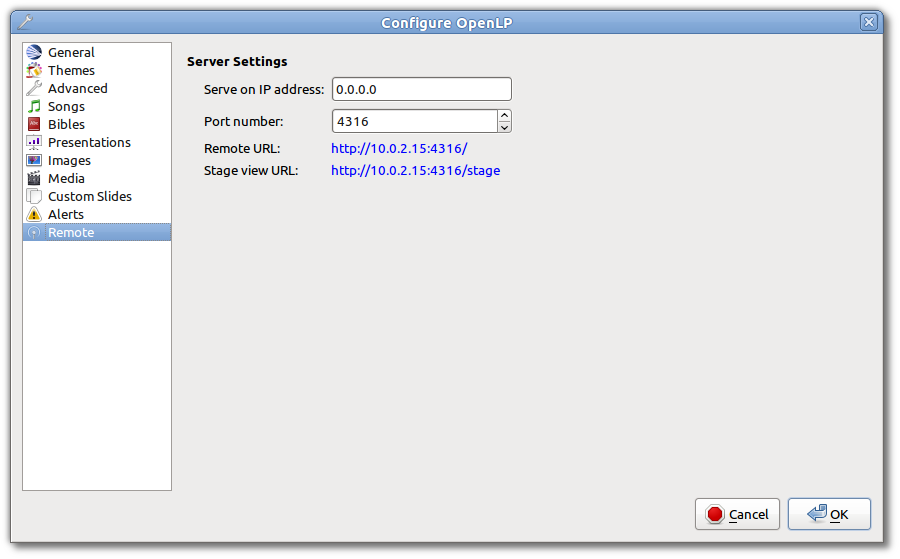
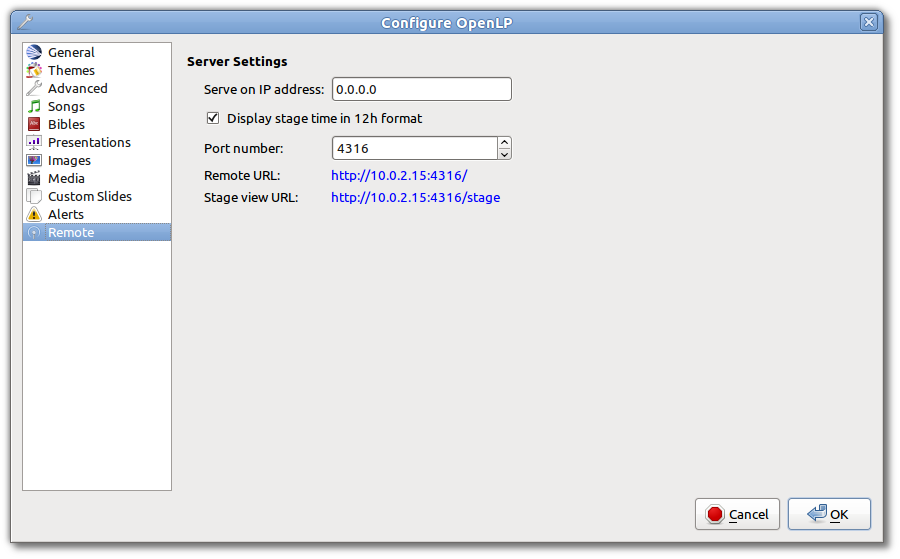
added time format to remote

Changed region(s): [[0.2178, 0.1825, 0.56, 0.3649]]

diff --git a/manual/source/configure.rst b/manual/source/configure.rst
@@ -349,15 +349,22 @@ Server Settings
   Put your projection computer's IP address here or use 0.0.0.0 which will 
   display your IP address links below. 
 
+**Display stage time in 12h format:**
+  This setting displays the time in stage view in 12h or 24h format.
+
 **Port Number:**
-  You can use the default port number or change it to another number. If you don't 
-  understand this setting, you can leave it as is.
+  You can use the default port number or change it to another number. If you 
+  do not understand this setting, you can leave it as is.
 
 **Remote URL:**
-  This will show the address you will use in the remote computer web browser.
+  Using the remote URL you have the ability to control the live service from 
+  another computer, netbook or smartphone that has a browser.
 
 **Stage view URL:**
-  This will show the address you will use in the remote computer for Stage view.
+  Using stage view gives you the ability, using a remote computer, netbook or 
+  smartphone, to view the live service display in a basic black and white 
+  format. This URL shows the address you will use in the remote browser for 
+  stage view.
 
 Finding your IP address
 ^^^^^^^^^^^^^^^^^^^^^^^
